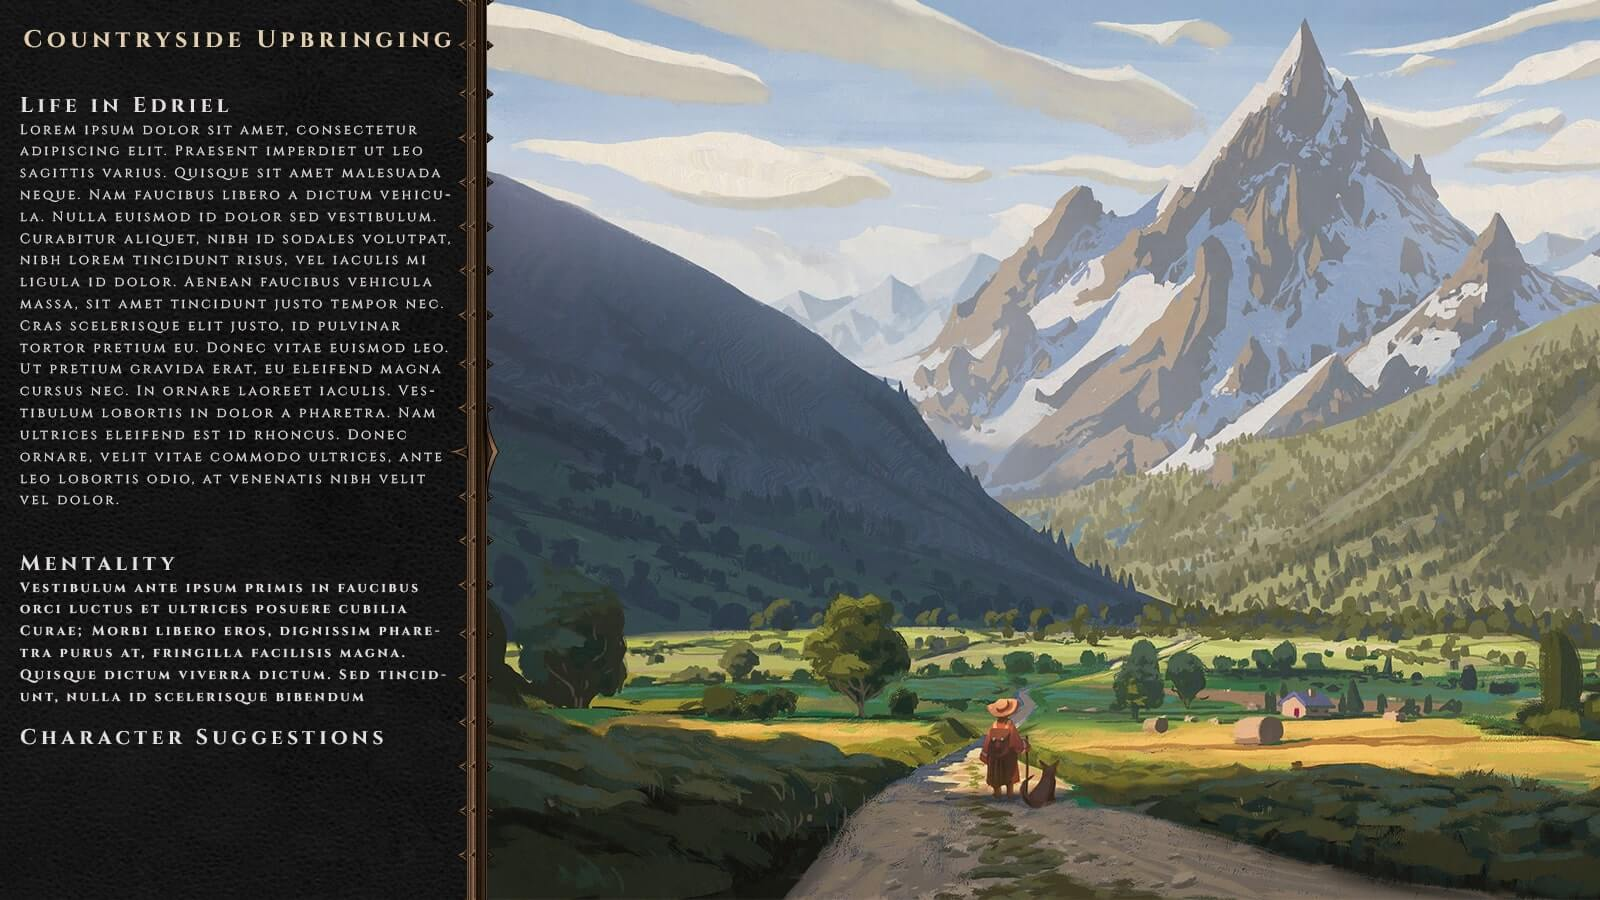
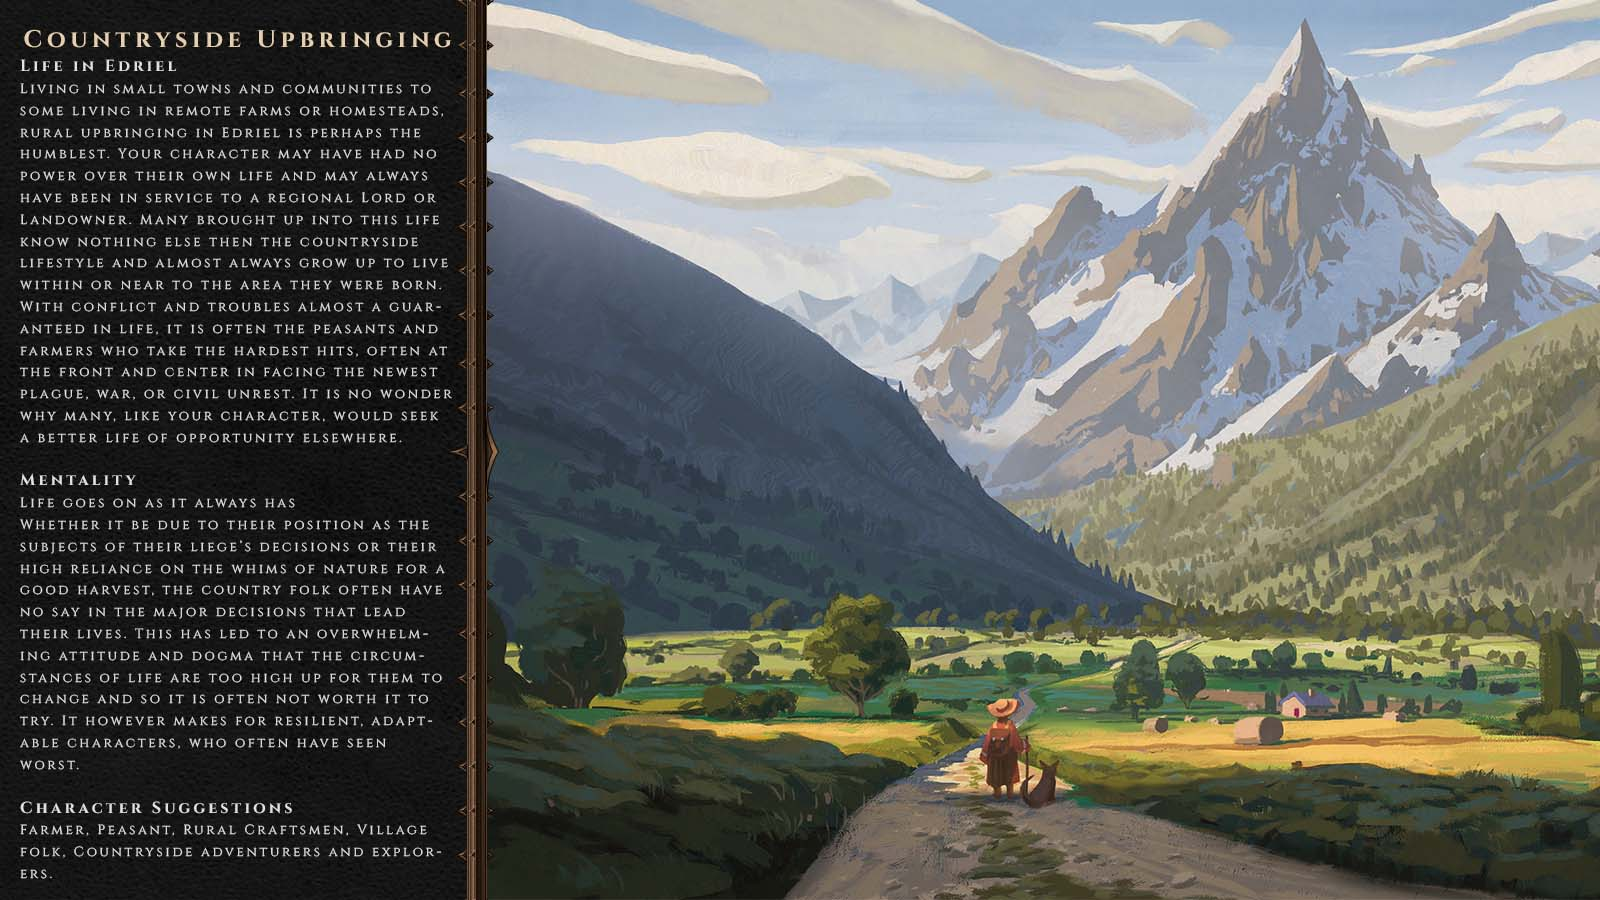
Optimized Images

Changed region(s): [[0.0, 0.0622, 0.2812, 0.84], [0.0, 0.8711, 0.2812, 0.9644]]

diff --git a/Character_Creation.html b/Character_Creation.html
@@ -200,7 +200,7 @@
                 <div class="row">
                     <h2>Life in Edriel</h2>
                     <p class="section-description">
-                        Read about life of various peoples in Edriel and the environments they grow up in to familiarize yourself with the setting and gain ideas for your own character backstory
+                        Read about life of various peoples in Edriel and the environments they grow up in to familiarize yourself with the setting and gain ideas for your own character backstory. These are some examples of backstories that you might use for inspiration
                     </p>
                 </div>
             </div>
@@ -225,61 +225,68 @@
                         <li data-target="#dragonic-carousel" data-slide-to="6"></li>
                         <li data-target="#dragonic-carousel" data-slide-to="7"></li>
                         <li data-target="#dragonic-carousel" data-slide-to="8"></li>
+                        <li data-target="#dragonic-carousel" data-slide-to="9"></li>
                     </ol>
                     <!-- Wrapper for slides -->
                     <div class="carousel-inner" role="listbox">
                         <div class="item active">
-                                <img src="img/humans.jpg" alt="Blank">
+                                <img src="img/backgroundCountryside.jpg" alt="Blank">
                             <div class="carousel-caption">
                                 Countryside upbringing
                             </div>
                         </div>
                         <div class="item">
-                            <img src="img/gallery-dragonic-game-screenshot-1.jpg" alt="Blank">
+                            <img src="img/backgroundMilitant.jpg" alt="Blank">
                             <div class="carousel-caption">
-                                The Dragon's voice boomed throughout the kingdom...
+                                Militant Background
                             </div>
                         </div>
                         <div class="item">
-                            <img src="img/gallery-dragonic-game-screenshot-2.jpg" alt="Blank">
+                            <img src="img/backgroundMercantile.jpg" alt="Blank">
                             <div class="carousel-caption">
-                                She would give them a piece of their own personal hell...
+                                Mercantile Career
                             </div>
                         </div>
                         <div class="item">
-                            <img src="img/gallery-dragonic-game-screenshot-3.jpg" alt="Blank">
+                            <img src="img/backgroundMilitant.jpg" alt="Blank">
                             <div class="carousel-caption">
-                                The Enlightened's charred husk remained atop the castle's walls...
+                                Noble Bloodline
                             </div>
                         </div>
                         <div class="item">
-                            <img src="img/gallery-dragonic-game-screenshot-4.jpg" alt="Blank">
+                            <img src="img/backgroundArtisan.jpg" alt="Blank">
                             <div class="carousel-caption">
-                                Void claimed all in the Halls of Reflection...
+                                Artisan Training
                             </div>
                         </div>
                         <div class="item">
-                            <img src="img/gallery-dragonic-game-screenshot-5.jpg" alt="Blank">
+                            <img src="img/backgroundMystical.jpg" alt="Blank">
                             <div class="carousel-caption">
-                                Theregar deflected another attack, towering atop the crambled stairs...
+                                Mystical Education
                             </div>
                         </div>
                         <div class="item">
-                            <img src="img/gallery-dragonic-game-screenshot-6.jpg" alt="Blank">
+                            <img src="img/backgroundWilds.jpg" alt="Blank">
                             <div class="carousel-caption">
-                                The soul fragments met, imprisoning life in the midst of the Void...
+                                Child of the Wilds
                             </div>
                         </div>
                         <div class="item">
-                            <img src="img/gallery-dragonic-game-screenshot-7.jpg" alt="Blank">
+                            <img src="img/backgroundDisfavoured.jpg" alt="Blank">
                             <div class="carousel-caption">
-                                Only moments remain before the Halls of Reflection burst into light...
+                                Disfavored One
                             </div>
                         </div>
                         <div class="item">
-                            <img src="img/gallery-dragonic-game-screenshot-8.jpg" alt="Blank">
+                            <img src="img/backgroundTribal.jpg" alt="Blank">
                             <div class="carousel-caption">
-                                In the shadows of the murky forest, they must pursue their foe...
+                                Tribal Lifestyle
+                            </div>
+                        </div>
+                        <div class="item">
+                            <img src="img/backgroundScholar.jpg" alt="Blank">
+                            <div class="carousel-caption">
+                               Scholary Pursuits
                             </div>
                         </div>
                     </div>
@@ -309,9 +316,9 @@
                 <div class="col-md-5">
                 <h2>Geography</h2>
                 <p class="section-description">
-                    At the centre of history and the world of Astra lies Edriel. A continent inhabited by various different races and cultures.
-                    <br>
-                    To the far lest lies Vynland, the newly found continent
+                    In the center of the world lies the continent of Edriel, otherwise known as the Old world. Bordered in the north by the Dwarven Kingdoms and the Astra’s Edge Mountains and in the south by the Dragonkin Tribes of the Askrae Desert, the lands of Edriel are as diverse as they are vast. Whether you come from a hard life in the steppes of the Orient or from a prosperous one in the Republics of the Lascari, Edriel holds almost every kind of lifestyle and community that one could imagine.
+                    <br><br>
+                    You can change mapmodes in the top left of the map for more information.
                 </p>
                 </div>
                 <div class="col-md-6" style="margin: 0; padding: 0;">
@@ -435,9 +442,9 @@
                     <p class="section-description-right">
                         The first part of creating a character are basic choices such as race, culture, age and a character archetype that you want to play. While you should avoid pigeonholing your character, giving your character an archetype that is their shtick creates more memorable and consistent themes.
 <br><br>
-                        <b>Race:</b> Pick a race that interests you and that you would like to portray. Optionally find more information about your chosen race on the Wiki.
+                        <b>Race:</b> Pick a race that interests you and that you would like to portray. Optionally find more information about your chosen race on the wiki <a href="https://wiki.vynland.com/index.php/Races">Here</a>
                         <br><br>
-                        <b>Culture:</b> If applicable, pick a culture for your character. Cultures help with the design of backstory, mindset and appearance. Information regarding them can be found on the wiki
+                        <b>Culture:</b> If applicable, pick a culture for your character. Cultures help with the design of backstory, mindset and appearance. Information regarding them can be found on the wiki <a href="https://wiki.vynland.com/index.php/Cultures">Here</a>
                         <br><br>
                         <b>Personality Traits:</b> Write a few keywords that you want your character to have. Think of things such as defining life moments, attitude and quirks that they may have.
                         <br><br>
@@ -656,7 +663,8 @@
                     <p class="section-description-right">
                         After you have an idea of a character in your mind and know what you want to Roleplay you flesh out your character with a background.
                         A backstory is the connection to the world of Astra. They tie you to interests, events and bind you to other people's characters allowing for dynamic roleplay.
-                        Writing a good backstory turns your character in more than numbers and gives them depth to immerse yourself into.
+                        Writing a good backstory turns your character in more than numbers and gives them depth to immerse yourself into. <br>
+                        <b>Make sure to not make your character too noteworthy or developed from the start.</b>
                         <br><br>
                         Your character has their own little world within the setting of Vynland, and it is encouraged to use some creativity to make up your own events and environment they grew up in.
                     </p>
@@ -695,7 +703,7 @@
             <div class="row">
                 <h2>Step 4: Join Vynland</h2>
                 <p class="section-description">
-                    While Hytale is not out yet, you can get involved in Vynland already through our Discord RP set in the city of Baymorne! Alternatively you can participate in the community by joining the Forums and/or Discord: [LINK]<br> If you would like to contribute to the lore of Vynland go here: [LINK]
+                    While Hytale is not out yet, you can get involved in Vynland already through our Discord RP set in the city of Baymorne! Alternatively you can participate in the community by joining the Forums and/or Discord: <a href="https://discord.gg/FcYhFMZ">Here</a><br> If you would like to contribute to the lore of Vynland go here: <a href="https://forums.vynland.com/index.php?threads/lore-contribution.51/#post-100">Here</a>
 
                 </p>
                 <h3 style="text-align: left">Create a character sheet on the forums</h3>
@@ -714,12 +722,12 @@
                 <div class="col-md-4">
                     <h3 style="text-align: left">Baymorne Roleplay</h3>
                     <p class="section-description-right">
-                        <b>Go to the Baymorne Map here: [LINK] and create your character token</b>
+                        <b>Go to the Baymorne Map here: <a href="https://baymorne.vynland.com/">Here</a> and create your character token</b>
                         <br>
                     </p>
                     <ol class="section-description-right">
-                        <li>Join our discord here [LINK] </li>
-                        <li>Join the Roleplay Discord</li>
+                        <li>Join our discord here <a href="https://discord.gg/FcYhFMZ">here</a> </li>
+                        <li>Join the Roleplay Discord <a href="https://discord.gg/2Rp3TCa">here</a></li>
 
                     </ol>
                 </div>
